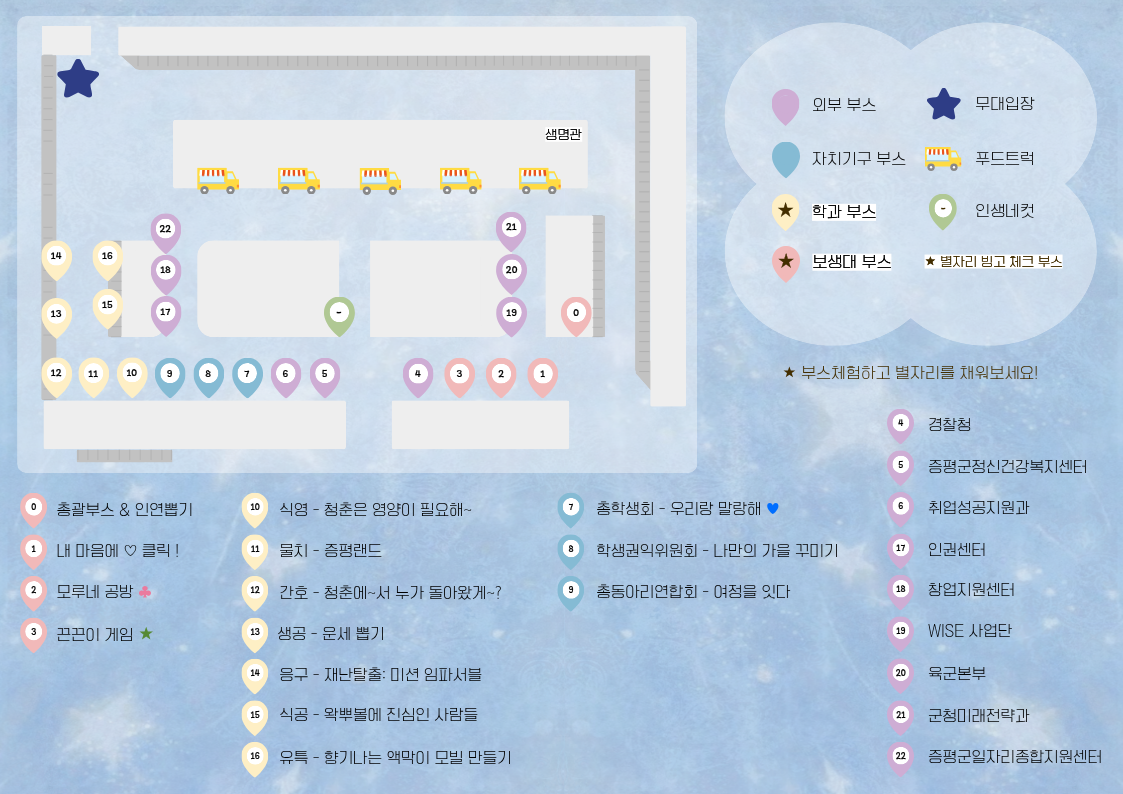
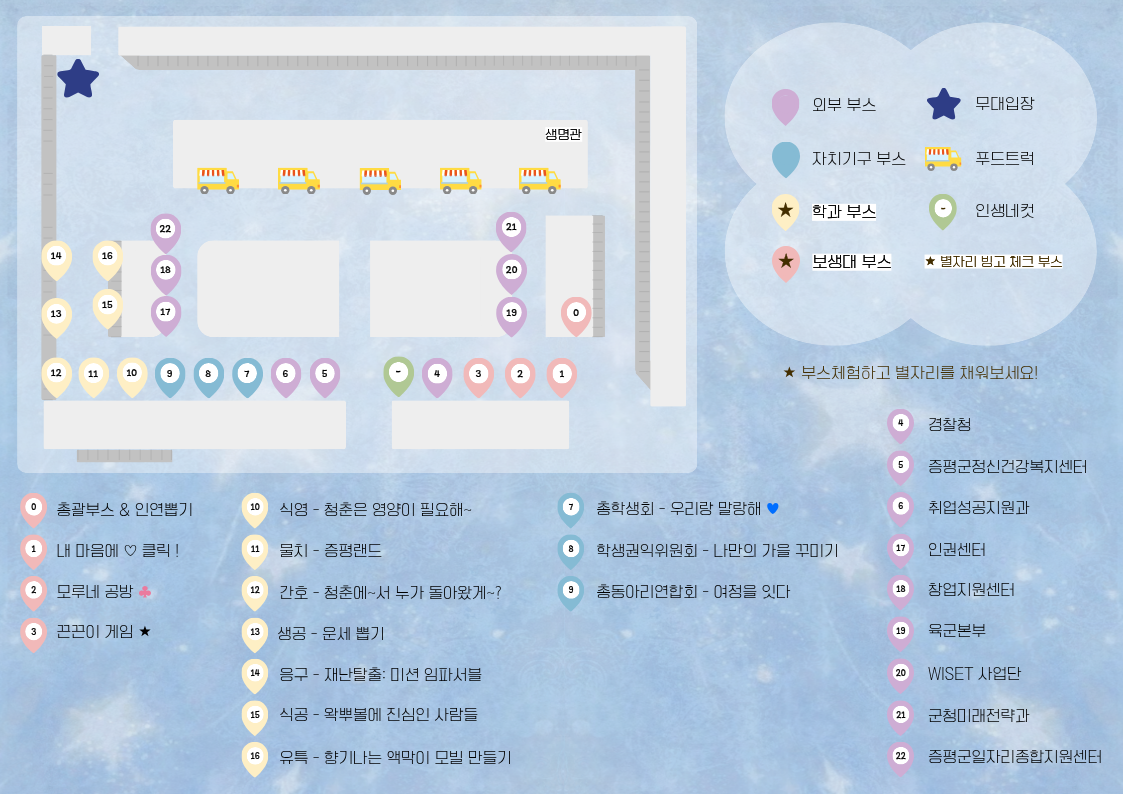
Update day two booth map image

diff --git a/index.html b/index.html
@@ -1734,7 +1734,7 @@
         <!-- 2일차 배치도 패널 -->
         <div id="mapDay2" class="map-content-panel">
             <div class="map-box">
-                <img src="map-day2-updated.png?v=20261007" alt="2일차 부스 배치도" class="map-image" onclick="openModal(this.src)">
+                <img src="map-day2-updated.png?v=20261007-2" alt="2일차 부스 배치도" class="map-image" onclick="openModal(this.src)">
                 <div class="legend-list">
                     <h3 style="color:#fff4d4; font-size:16px; margin-bottom:5px;">2일차 부스 안내 - 생명관 앞</h3>
                     <div>🟣 - 외부 부스</div>
